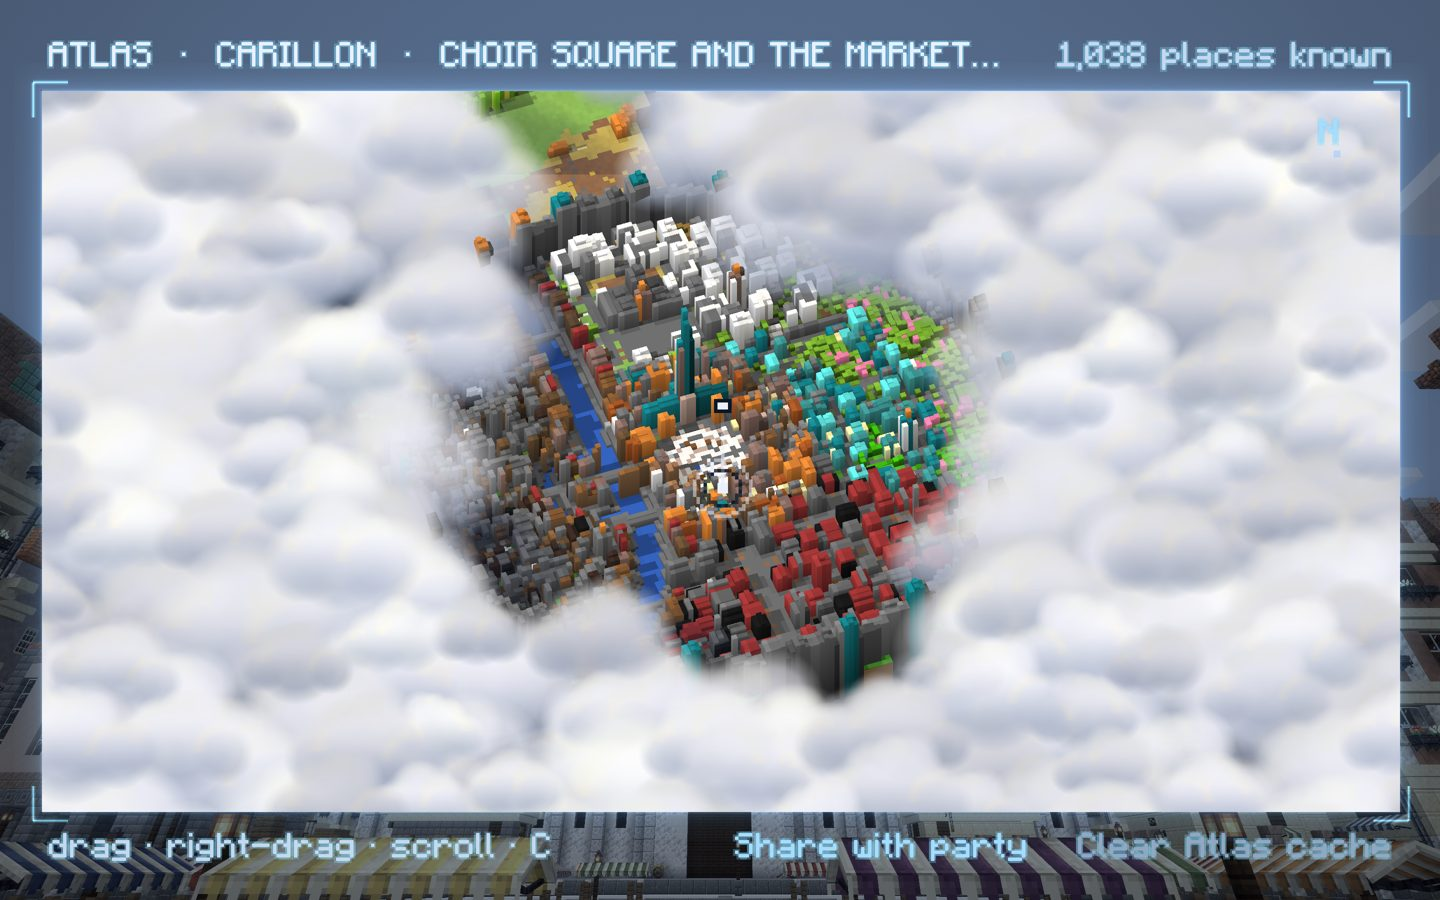
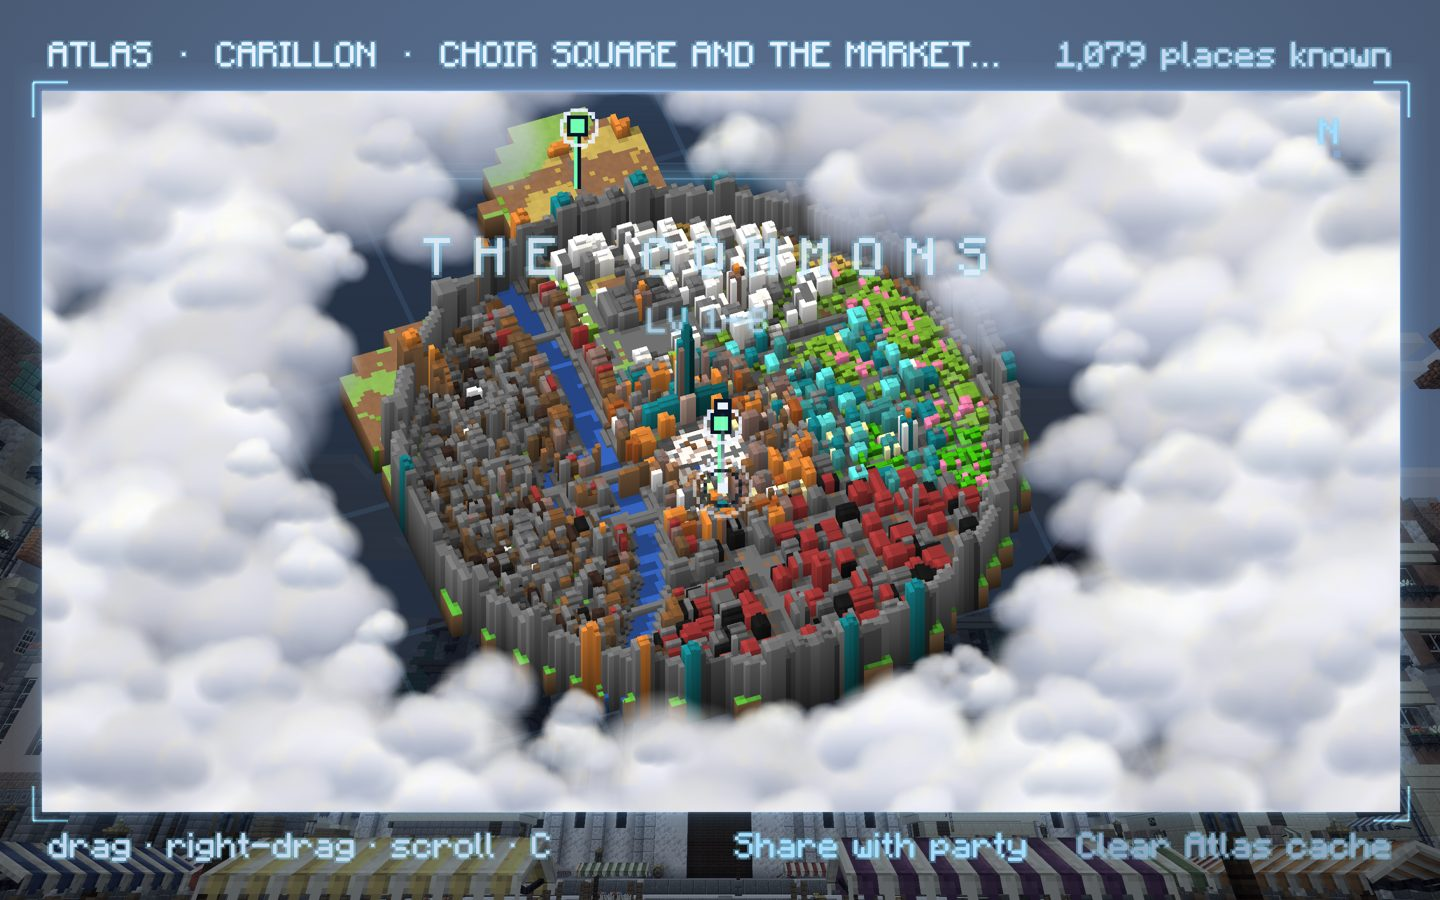
Atlas M5 polish: zoomed out, known land stays clear of cloud at every zoom (exact counts per coarse cell, small clouds beside it); region names keep clear of you, pins, marks and each other and stay inside the panel; polish tour and shots

diff --git a/src/main/java/dev/awaken/atlas/client/AtlasScreen.java b/src/main/java/dev/awaken/atlas/client/AtlasScreen.java
@@ -47,7 +47,24 @@ public final class AtlasScreen extends Screen {
     private final Matrix4f gui = new Matrix4f();
     private final Vector3f v = new Vector3f();
     private boolean reveal;
-    private final int[] regionBoxes = new int[32 * 4];
+    private static final int BOXES = 96;
+    private final int[] regionBoxes = new int[BOXES * 4];
+
+    /** Keeps a box (x0, y0, x1, y1) that names must stay clear of; returns the new count. */
+    private int box(int n, int x0, int y0, int x1, int y1) {
+        if (n >= BOXES) return n;
+        regionBoxes[n * 4] = x0;
+        regionBoxes[n * 4 + 1] = y0;
+        regionBoxes[n * 4 + 2] = x1;
+        regionBoxes[n * 4 + 3] = y1;
+        return n + 1;
+    }
+
+    private boolean free(int n, int x0, int y0, int x1, int y1) {
+        for (int k = 0; k < n; k++)
+            if (x1 >= regionBoxes[k * 4] && x0 <= regionBoxes[k * 4 + 2] && y1 >= regionBoxes[k * 4 + 1] && y0 <= regionBoxes[k * 4 + 3]) return false;
+        return true;
+    }
     private int wantX = Integer.MIN_VALUE, wantZ;
     private int shareX0, shareX1, clearX0, clearX1, buttonsY;
 
@@ -224,28 +241,43 @@ public final class AtlasScreen extends Screen {
         // the Living Wilds' regions you've been in, lettered across the land once you're zoomed out, as old maps name
         // a country: spaced capitals, quiet, with the region's levels under the name
         if (lod > 0) {
+            // first what stands on the table (you, pins, marks): names keep clear of them
             int placed = 0;
+            if (mc.player != null && project(mc.player.getX(), atlas.store.groundY(mc.player.getX(), mc.player.getZ(), mc.player.getY()), mc.player.getZ(), x0, y0))
+                placed = box(placed, Math.round(v.x) - 12, Math.round(v.y) - 30, Math.round(v.x) + 12, Math.round(v.y) + 12);
+            for (dev.awaken.atlas.AtlasNet.PinView pin : atlas.pins)
+                if (project(pin.x() + 0.5, pin.y() + 1, pin.z() + 0.5, x0, y0))
+                    placed = box(placed, Math.round(v.x) - 7, Math.round(v.y) - 26, Math.round(v.x) + 7, Math.round(v.y) + 4);
+            if (mc.player != null) for (MapMarks.Mark m : MapMarks.collect(mc.player)) {
+                BlockPos p = m.pos();
+                if (!m.label().startsWith("? ") && !Discovery.CLIENT.explored(p.getX() >> 4, p.getZ() >> 4)) continue;
+                if (project(p.getX() + 0.5, atlas.store.groundY(p.getX(), p.getZ(), p.getY()), p.getZ() + 0.5, x0, y0))
+                    placed = box(placed, Math.round(v.x) - 8, Math.round(v.y) - 8, Math.round(v.x) + 8, Math.round(v.y) + 8);
+            }
             for (dev.awaken.atlas.AtlasData.Region r : atlas.regions) {
                 if (!project(r.heartX(), atlas.store.groundY(r.heartX(), r.heartZ(), 64) + 6, r.heartZ(), x0, y0)) continue;
                 String name = spaced(r.name().toUpperCase(Locale.ROOT));
-                int sx = Math.round(v.x), sy = Math.round(v.y), half = Math.round(font.width(name) * 0.75f);
-                // names never sit on one another: a later one that would overlap an earlier one waits for a closer zoom
-                boolean clear = true;
-                for (int k = 0; k < placed && clear; k++)
-                    clear = sx + half < regionBoxes[k * 4] || sx - half > regionBoxes[k * 4 + 2] || sy + 20 < regionBoxes[k * 4 + 1] || sy - 8 > regionBoxes[k * 4 + 3];
-                if (!clear || placed >= 32) continue;
-                regionBoxes[placed * 4] = sx - half;
-                regionBoxes[placed * 4 + 1] = sy - 8;
-                regionBoxes[placed * 4 + 2] = sx + half;
-                regionBoxes[placed * 4 + 3] = sy + 20;
-                placed++;
+                String lv = r.low() == r.high() ? "LV " + r.low() : "LV " + r.low() + "–" + r.high();
+                int half = Math.round(font.width(name) * 0.75f) + 4, sy = Integer.MIN_VALUE;
+                // a name near the panel's edge slides in so it's read whole, never cut by the frame
+                int sx = Math.clamp(Math.round(v.x), x0 + 4 + half, Math.max(x0 + 4 + half, x1 - 4 - half));
+                // the name and its levels as one block (the name 1.5× from -6 to +8, the levels from +14 to +23); moved
+                // up or down to the nearest free place, or left for a closer zoom when there is none
+                for (int dy : new int[]{0, -28, 28, -56, 56}) {
+                    int y = Math.clamp(Math.round(v.y) + dy, y0 + 10, Math.max(y0 + 10, y1 - 27));
+                    if (free(placed, sx - half, y - 8, sx + half, y + 25)) {
+                        sy = y;
+                        break;
+                    }
+                }
+                if (sy == Integer.MIN_VALUE || placed >= BOXES) continue;
+                placed = box(placed, sx - half, sy - 8, sx + half, sy + 25);
                 g.pose().pushMatrix();
                 g.pose().translate(sx, sy);
                 g.pose().scale(1.5f, 1.5f);
                 HudLook.text(g, font, name, -font.width(name) / 2, -4, 0xD8E6EEF8, false);
                 g.pose().popMatrix();
-                String lv = r.low() == r.high() ? "LV " + r.low() : "LV " + r.low() + "–" + r.high();
-                HudLook.text(g, font, lv, sx - font.width(lv) / 2, sy + 10, 0xB08FA7C4, false);
+                HudLook.text(g, font, lv, sx - font.width(lv) / 2, sy + 14, 0xB08FA7C4, false);
             }
         }
         if (mc.player != null) {

diff --git a/src/main/java/dev/awaken/atlas/client/AtlasClouds.java b/src/main/java/dev/awaken/atlas/client/AtlasClouds.java
@@ -104,16 +104,11 @@ final class AtlasClouds {
         return t * t * (3 - 2 * t);
     }
 
-    /** How much of a cloud cell (16·2^shift blocks) is unexplored: 0..1, from up to 4×4 samples of its cells. */
+    /** How much of a cloud cell (16·2^shift blocks) is unexplored: 0..1. */
     private static float unexploredFraction(Explored e, int cellX, int cellZ, int shift) {
         if (shift == 0) return e.explored(cellX, cellZ) ? 0f : 1f;
-        int span = 1 << shift, stride = Math.max(1, span / 4), n = 0, known = 0;
-        for (int dz = stride / 2; dz < span; dz += stride)
-            for (int dx = stride / 2; dx < span; dx += stride) {
-                n++;
-                if (e.explored((cellX << shift) + dx, (cellZ << shift) + dz)) known++;
-            }
-        return 1f - known / (float) n;
+        int span = 1 << shift; // exact: every cell counted, a word of bits a row (a road a cell wide still shows)
+        return 1f - e.countIn(cellX << shift, cellZ << shift, span) / (float) (span * span);
     }
 
     private void refresh(Explored explored, Long2LongOpenHashMap revealedAt, int ccx, int ccz, int lod) {
@@ -162,27 +157,34 @@ final class AtlasClouds {
                 int own = j * W + i;
                 float ownU = unexplored[own];
                 if (revealNanos[own] != 0L) ownU = Math.max(ownU, 1f - (now - revealNanos[own]) / FADE_NANOS);
-                // an unexplored cell is always fully covered; the blur only spills soft cloud over explored edges. A
-                // coarse cell (zoomed out) that is mostly known stays clear, so the land you know isn't buried
-                if (lod > 0 && ownU < 0.6f) continue;
+                // an unexplored cell is always fully covered; the blur only spills soft cloud over explored edges.
+                // Zoomed out a cloud cell is 64 or 256 blocks, so one with any known land in it carries no cloud, and
+                // one beside known land carries a small one: the land you know stays in view at every zoom
+                boolean beside = false;
+                if (lod > 0) {
+                    if (ownU < 0.999f) continue;
+                    beside = unexplored[own - 1] < 0.999f || unexplored[own + 1] < 0.999f || unexplored[own - W] < 0.999f || unexplored[own + W] < 0.999f;
+                    f = 1f;
+                }
                 if (ownU >= 0.999f) f = Math.max(f, 1f);
                 if (f < 0.12f) continue;
                 int cellX = ccx + i - R - 1, cellZ = ccz + j - R - 1;
                 int hsh = AtlasMesh.hash(cellX * 7 + 3 + lod * 101, cellZ * 13 + 5);
                 float r1 = (hsh & 255) / 255f, r2 = ((hsh >> 8) & 255) / 255f, r3 = ((hsh >> 16) & 255) / 255f, ph = r3 * 6.28f;
-                float wx = (float) ((double) cellX * cell + cell / 2.0 - cx) + (r1 - 0.5f) * 12f * s + (float) Math.sin(time * 0.22f + ph) * 6f * s;
-                float wz = (float) ((double) cellZ * cell + cell / 2.0 - cz) + (r2 - 0.5f) * 12f * s + (float) Math.cos(time * 0.17f + ph * 1.3f) * 3f * s;
+                float sway = beside ? 0.35f : 1f; // a small cloud beside known land keeps to its own cell
+                float wx = (float) ((double) cellX * cell + cell / 2.0 - cx) + ((r1 - 0.5f) * 12f + (float) Math.sin(time * 0.22f + ph) * 6f) * s * sway;
+                float wz = (float) ((double) cellZ * cell + cell / 2.0 - cz) + ((r2 - 0.5f) * 12f + (float) Math.cos(time * 0.17f + ph * 1.3f) * 3f) * s * sway;
                 float dist = (float) Math.sqrt(wx * wx + wz * wz);
                 float edge = 1f - smooth((dist - rim) / rimSoft); // the blanket thins out at the table's rim
                 if (edge <= 0f) continue;
                 float a = smooth((f - 0.12f) / 0.5f) * edge;
                 int variant = (hsh >>> 24) % VARIANTS;
                 boolean flip = (hsh & 0x800000) != 0;
-                float size = (34f + 26f * r1) * (0.6f + 0.4f * a) * s;
+                float size = (34f + 26f * r1) * (0.6f + 0.4f * a) * s * (beside ? 0.5f : 1f);
                 // its shadow, on explored ground only: a little east and south of it
                 float shx = wx + 10f * s, shz = wz + 4f * s;
                 double gx = cx + shx, gz = cz + shz;
-                if (shadowCount < MAX_PUFFS && explored.explored((int) Math.floor(gx) >> 4, (int) Math.floor(gz) >> 4)) {
+                if (lod == 0 && shadowCount < MAX_PUFFS && explored.explored((int) Math.floor(gx) >> 4, (int) Math.floor(gz) >> 4)) {
                     base.transformPosition(shx, (float) (store.groundY(gx, gz, cy) - cy), shz, v);
                     sx[shadowCount] = v.x;
                     sy[shadowCount] = v.y;

diff --git a/src/main/java/dev/awaken/atlas/Explored.java b/src/main/java/dev/awaken/atlas/Explored.java
@@ -66,6 +66,27 @@ public final class Explored {
         return (t[i >> 6] & (1L << (i & 63))) != 0;
     }
 
+    /**
+     * How many cells are explored in the square of {@code size} cells from (cellX0, cellZ0); {@code size} a power of two
+     * up to 32, the corner aligned to it, so each row is one run of bits in one word (rows are 32 bits, two to a long).
+     */
+    public int countIn(int cellX0, int cellZ0, int size) {
+        long mask = size >= 64 ? -1L : (1L << size) - 1;
+        int n = 0;
+        long[] t = null;
+        int lastTz = Integer.MIN_VALUE;
+        for (int z = cellZ0; z < cellZ0 + size; z++) {
+            if ((z >> TILE_SHIFT) != lastTz) {
+                lastTz = z >> TILE_SHIFT;
+                t = tiles.get(key(cellX0 >> TILE_SHIFT, lastTz));
+            }
+            if (t == null) continue;
+            int bit = ((z & (TILE - 1)) << TILE_SHIFT) | (cellX0 & (TILE - 1));
+            n += Long.bitCount((t[bit >> 6] >>> (bit & 63)) & mask);
+        }
+        return n;
+    }
+
     /** Marks one cell; true when it was new. */
     public boolean mark(int cellX, int cellZ) {
         long[] t = tiles.computeIfAbsent(key(cellX >> TILE_SHIFT, cellZ >> TILE_SHIFT), k -> new long[WORDS]);

diff --git a/src/main/java/dev/awaken/atlas/AtlasTests.java b/src/main/java/dev/awaken/atlas/AtlasTests.java
@@ -24,6 +24,8 @@ final class AtlasTests {
             other.mark(3, -5);
             other.mark(64, 64);
             h.assertTrue(e.merge(other) == 1 && e.count() == 3, "merge adds only what was new, was " + e.count());
+            h.assertTrue(e.countIn(0, -16, 16) == 1 && e.countIn(64, 64, 4) == 1 && e.countIn(-48, 96, 16) == 1 && e.countIn(16, 16, 16) == 0,
+                    "a square's count is exact (zoomed out, clouds keep off known land)");
             AtlasData d = new AtlasData();
             d.dim("minecraft:overworld").merge(e);
             d.trail.add(1);

diff --git a/docs/SPEC.md b/docs/SPEC.md
@@ -1682,6 +1682,11 @@ for sealing and shared rewards; `story` hands the Ritual's end to `opening` in C
     still +1.5–1.6 ms p50 (+1.4–1.5 of it is the open screen itself, re-blitting the frozen picture: the blit, the glass
     card, Lens dimming), clouds at 60 Hz +1.9–2.0, orbiting +1.9–2.0 after the 60 Hz cap (+2.6 before); open 12–20 ms
     cold, 2–8 ms warm; the glance 0.23 ms a paint; sampler 10–18 µs a chunk (120 µs under the Nether's roof).
+  - Zoomed out (polish, 2026-10-25): a cloud cell of 64 or 256 blocks carries no cloud if any cell in it is known
+    (counted exactly, a word of bits a row), and one beside known land carries a half-size cloud that keeps to its own
+    cell, so the land you know shows at every zoom under a whole blanket. Region names keep clear of you, the pins, the
+    marks and each other (moved up or down by a line or two, else left for a closer zoom) and slide inside the panel
+    at its edges.
   - Frame cost is judged on OpenGL: on Vulkan, MoltenVK presents at the display's rate (120 Hz) even with vsync off, so
     a capped tour can't show it.
 
